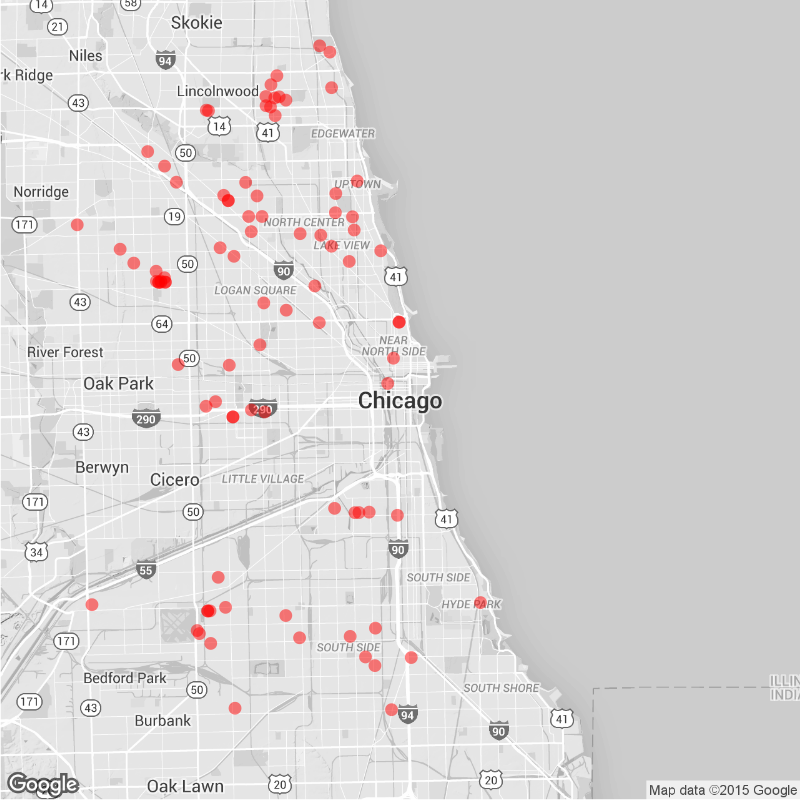
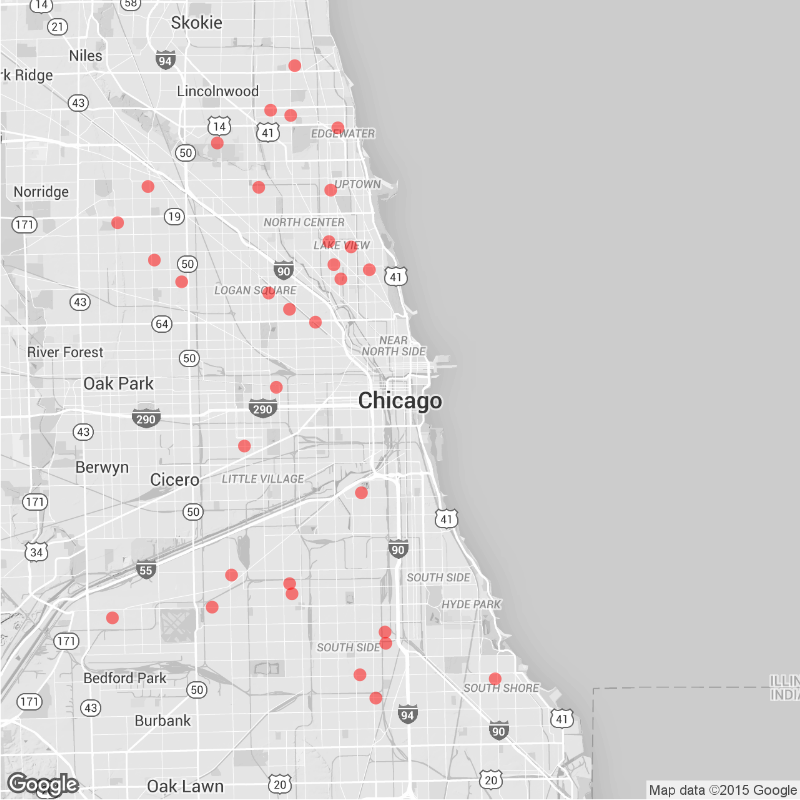
Daily Maps

diff --git a/daily.md b/daily.md
@@ -15,22 +15,22 @@ tags: Chicago NYC weekly daily rats
 
 ### Daily
 
-Yesterday (December 04), there were 92 calls to Chicago's 311 line about rats.
+Yesterday (December 05), there were 34 calls to Chicago's 311 line about rats.
 ![Chicago rat calls to 311 weekly map]({{ site.cityimages }}/daily/Chicago_Rat_Map_Daily.png)
 
 ### Weekly
-Between November 28 and December 04, there were 548 calls to Chicago's 311 line about rats. The average number of weekly calls for this time of year is 410.
+Between November 29 and December 05, there were 551 calls to Chicago's 311 line about rats. The average number of weekly calls for this time of year is 410.
 ![Chicago rat calls to 311 weekly map]({{ site.cityimages }}/daily/Chicago_Rat_Map_Weekly.png)
 ***
 # New York City <a id="nyc"><a>
 
 ### Daily
 
-Yesterday (December 04), there were 0 calls to New York City's 311 line about rats.
+Yesterday (December 05), there were 0 calls to New York City's 311 line about rats.
 ![NYC rat calls to 311 weekly map]({{ site.cityimages }}/daily/NYC_Rat_Map_Daily.png)
 
 ### Weekly
-Between November 28 and December 04, there were 0 calls to New York City's 311 line about rats. The average number of weekly calls for this time of year is 138.
+Between November 29 and December 05, there were 0 calls to New York City's 311 line about rats. The average number of weekly calls for this time of year is 138.
 ![NYC rat calls to 311 weekly map]({{ site.cityimages }}/daily/NYC_Rat_Map_Weekly.png)
 
 Each red dot represents one call about a rat seen in that location. The dots are transparent, so multiple calls from one location will be seen as a solid dot. The usual caveats apply: more calls do not necessarily mean that there are more rats in that location than other parts of the city. A cluster of dots could indicate that one resident is unusually vocal about rodents in his or her neighborhood. Also, more densely populated neighborhoods tend to make more calls to 311.
